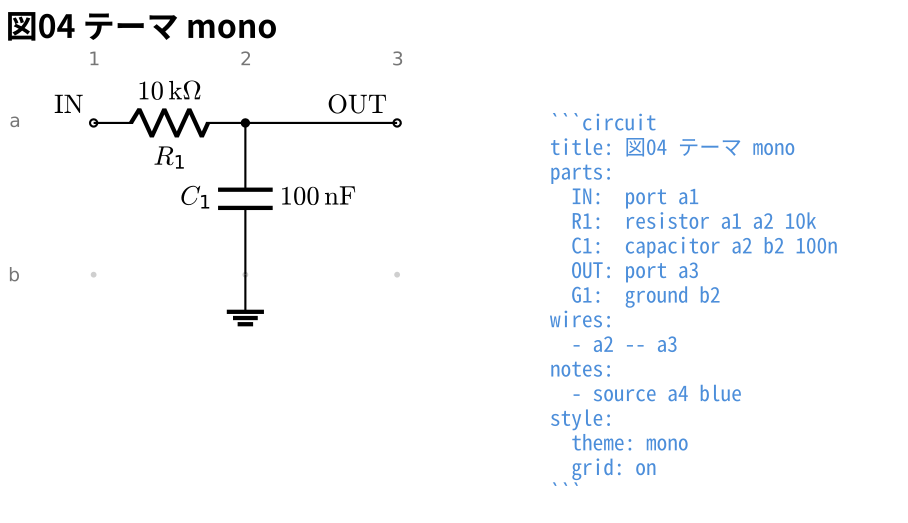
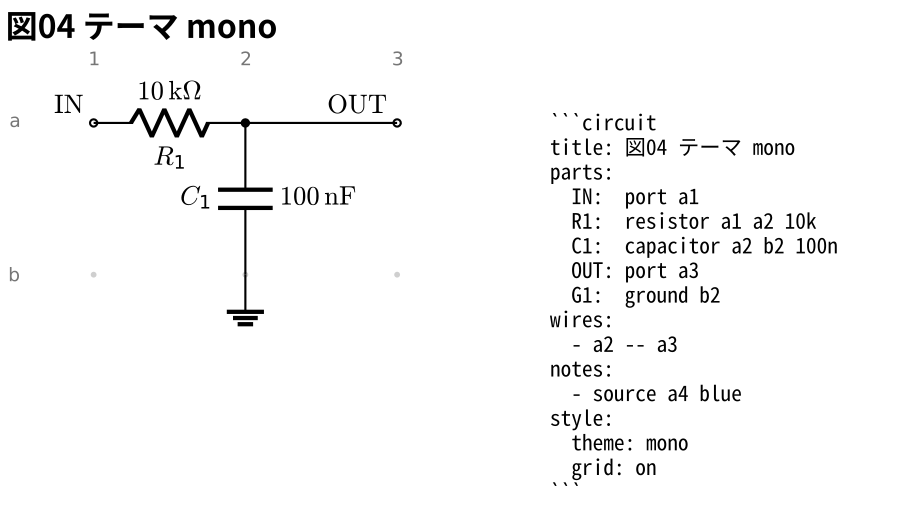
feat: theme: mono で注釈の色も潰す
「黒一色」と説明しているのに、注釈 (red / blue / green / orange) だけ色が
残っていた。資料に貼る・印刷するためのテーマなので、色が漏れると困る。
色を使いたい図では mono を選ばない、という分け方にした。

図は 1 回描いてどのテーマでも使い回す作りなので、TeX に焼き込まれた注釈の
色も描き上がった SVG で塗り替える。

あわせて **塗り替えを 1 回で決める**ようにした (レビュー指摘)。順に置き換えて
いたので、塗り替えた色を次の行がもう一度拾っていた — `theme: mono` +
`ink-color: "#ffffff"` + `paper-color: "#000000"` の図では、回路も注釈も
白に塗ったあと次の行で地の色 (黒) に塗り直され、まるごと消えていた。
回路の側は元からあった穴で、注釈をそこに通したことで露わになった。

🤖 Generated with [Claude Code](https://claude.com/claude-code)

diff --git a/src/core/render/theme.ts b/src/core/render/theme.ts
@@ -1,4 +1,4 @@
-import { DEFAULT_NOTE_SIZE, notePt } from '../notes.ts';
+import { DEFAULT_NOTE_SIZE, NOTE_COLORS, notePt } from '../notes.ts';
 import type { StyleSpec } from '../types.ts';
 
 /**
@@ -22,6 +22,13 @@ export type Theme = {
    */
   readonly grid: string;
   /**
+   * 注釈の色も ink に潰すか。**mono だけ true**。
+   * 「黒一色」と説明している以上、注釈だけ色が残ると説明が嘘になる
+   * (資料に貼る・印刷するためのテーマなので、色が漏れると困る)。
+   * 色を使いたい図では mono を選ばない、という分け方にしてある。
+   */
+  readonly monochrome: boolean;
+  /**
    * 地の色をエディタに合わせてよいか。
    * テーマを選ばず、地の色も書かなかったときだけ true。
    * 色を書いた図まで CSS で塗り替えると、書いた指定が効かなくなる。
@@ -34,15 +41,25 @@ export type Theme = {
  * そのまま拾うので、明るいテーマでも暗いテーマでも読める。
  */
 const AUTO: Theme = {
-  name: 'auto', ink: 'currentColor', paper: '#ffffff', grid: '#8b949e', followsEditor: true,
+  name: 'auto', ink: 'currentColor', paper: '#ffffff', grid: '#8b949e',
+  monochrome: false, followsEditor: true,
 };
 
 const THEMES: Record<string, Theme> = {
   auto: AUTO,
-  light: { name: 'light', ink: '#1f2328', paper: '#ffffff', grid: '#8c959f', followsEditor: false },
-  dark: { name: 'dark', ink: '#e6edf3', paper: '#0d1117', grid: '#7d8590', followsEditor: false },
-  /** 資料に貼る用。プレビューのテーマに関わらず黒一色。 */
-  mono: { name: 'mono', ink: '#000000', paper: '#ffffff', grid: '#767676', followsEditor: false },
+  light: {
+    name: 'light', ink: '#1f2328', paper: '#ffffff', grid: '#8c959f',
+    monochrome: false, followsEditor: false,
+  },
+  dark: {
+    name: 'dark', ink: '#e6edf3', paper: '#0d1117', grid: '#7d8590',
+    monochrome: false, followsEditor: false,
+  },
+  /** 資料に貼る用。プレビューのテーマに関わらず黒一色 — 注釈の色も潰す。 */
+  mono: {
+    name: 'mono', ink: '#000000', paper: '#ffffff', grid: '#767676',
+    monochrome: true, followsEditor: false,
+  },
 };
 
 export const THEME_NAMES: readonly string[] = Object.keys(THEMES);
@@ -64,6 +81,7 @@ export function resolveTheme(style: StyleSpec): ThemeResolution {
       ink: style.inkColor ?? base.ink,
       paper: style.paperColor ?? base.paper,
       grid: style.gridColor ?? base.grid,
+      monochrome: base.monochrome,
       // 地の色を書いてあるなら、その色のままにする。
       followsEditor: base.followsEditor && style.paperColor === null,
     },
@@ -85,11 +103,36 @@ export function resolveTheme(style: StyleSpec): ThemeResolution {
  * 地に沈んで見えなくなる。
  */
 export function recolorSvg(svg: string, theme: Theme): string {
+  const paint = paletteOf(theme);
+
   return svg
-    .replace(/(stroke|fill)="#000(?:000)?"/g, `$1="${theme.ink}"`)
-    .replace(/(stroke|fill)="#fff(?:fff)?"/g, `$1="${theme.paper}"`)
-    .replace(/(stroke|fill)="gray"/g, `$1="${theme.grid}"`)
+    // **1 回で決める**。順に置き換えると、塗り替えた色を次の行がもう一度拾う
+    // (ink に白を書いた図では、回路も注釈も次の行で地の色に塗り直されて消えた)。
+    .replace(/\b(stroke|fill)="([^"]+)"/g, (whole, attribute: string, color: string) => {
+      const painted = paint.get(color);
+      return painted === undefined ? whole : `${attribute}="${painted}"`;
+    })
     .replace(/^(\s*<svg\b)(?![^>]*\sfill=)/, `$1 fill="${theme.ink}"`);
+}
+
+/**
+ * 塗り替えの表。**ここに載っていない色には触らない** (`none` を含む)。
+ *
+ * mono だけは注釈のパレットも ink に潰す。図は 1 回描いてどのテーマでも
+ * 使い回す作りなので、TeX に焼き込まれた注釈の色もここで塗り替える。
+ */
+function paletteOf(theme: Theme): Map<string, string> {
+  const paint = new Map<string, string>([
+    ['#000', theme.ink],
+    ['#000000', theme.ink],
+    ['#fff', theme.paper],
+    ['#ffffff', theme.paper],
+    ['gray', theme.grid],
+  ]);
+  if (!theme.monochrome) return paint;
+
+  for (const color of Object.values(NOTE_COLORS)) paint.set(color, theme.ink);
+  return paint;
 }
 
 const WIDTH = /(<svg[^>]*?)\swidth="([\d.]+)"([^>]*?)\sheight="([\d.]+)"/;

diff --git a/src/core/render/theme.test.ts b/src/core/render/theme.test.ts
@@ -1,4 +1,5 @@
 import { describe, expect, test } from 'vitest';
+import { NOTE_COLORS } from '../notes.ts';
 import { EMPTY_STYLE } from '../parser/style.ts';
 import {
   DEFAULT_THEME_NAME, THEME_NAMES, recolorSvg, resizeSvg, resolveTheme, scaleSvgToText,
@@ -139,5 +140,58 @@ describe('scaleSvgToText', () => {
 
   test('leaves a drawing it cannot measure alone', () => {
     expect(scaleSvgToText('<svg viewBox="0 0 80 40"></svg>')).toBe('<svg viewBox="0 0 80 40"></svg>');
+  });
+});
+
+describe('recolorSvg の mono', () => {
+  const mono = resolveTheme({ ...EMPTY_STYLE, theme: 'mono' }).theme;
+  const dark = resolveTheme({ ...EMPTY_STYLE, theme: 'dark' }).theme;
+  const noted = svg(`<path stroke="${NOTE_COLORS.red}"/><text fill="${NOTE_COLORS.blue}">あ</text>`);
+
+  test('paints the notes with the ink too, because mono means one colour', () => {
+    // 「黒一色」と説明している以上、注釈だけ色が残ると説明が嘘になる
+    // (資料に貼る・印刷するためのテーマなので、色が漏れると困る)。
+    const painted = recolorSvg(noted, mono);
+
+    expect(painted).not.toContain(NOTE_COLORS.red);
+    expect(painted).not.toContain(NOTE_COLORS.blue);
+    expect(painted).toContain(`stroke="${mono.ink}"`);
+    expect(painted).toContain(`fill="${mono.ink}"`);
+  });
+
+  test('leaves the notes coloured in every other theme', () => {
+    const painted = recolorSvg(noted, dark);
+
+    expect(painted).toContain(NOTE_COLORS.red);
+    expect(painted).toContain(NOTE_COLORS.blue);
+  });
+
+  test('still paints the circuit with the ink the writer chose', () => {
+    const painted = recolorSvg(svg('<path stroke="#000"/>'), { ...mono, ink: '#333333' });
+
+    expect(painted).toContain('stroke="#333333"');
+  });
+});
+
+describe('recolorSvg の塗り替えは 1 回で決まる', () => {
+  // 順に置き換えると、**塗り替えた色をもう一度拾ってしまう**。
+  // ink に白を書いた図では、回路も注釈も次の行で地の色に塗り直されて消える。
+  const inverted = resolveTheme({
+    ...EMPTY_STYLE, theme: 'mono', inkColor: '#ffffff', paperColor: '#000000',
+  }).theme;
+
+  test('paints the circuit with the ink even when the ink is the other theme colour', () => {
+    expect(recolorSvg(svg('<path stroke="#000000"/>'), inverted)).toContain('stroke="#ffffff"');
+  });
+
+  test('paints a note with the ink without painting it again', () => {
+    // 根に足す塗りも同じ色なので、字のほうを名指しで見る。
+    const painted = recolorSvg(svg(`<text fill="${NOTE_COLORS.red}">あ</text>`), inverted);
+
+    expect(painted).toContain('<text fill="#ffffff">あ</text>');
+  });
+
+  test('still paints the hollow terminal with the paper colour', () => {
+    expect(recolorSvg(svg('<g fill="#fff"/>'), inverted)).toContain('fill="#000000"');
   });
 });

diff --git a/CHANGELOG.md b/CHANGELOG.md
@@ -220,6 +220,11 @@
 
 ### Changed
 
+- **`theme: mono` が注釈の色も潰すようにした**。「黒一色」と説明しているのに
+  注釈 (`red` / `blue` / `green` / `orange`) だけ色が残っていた。資料に貼る・
+  印刷するためのテーマなので、色が漏れると困る。図は 1 回描いてどのテーマでも
+  使い回す作りなので、TeX に焼き込まれた注釈の色も描き上がった SVG で塗り替える。
+  色を使いたい図では `mono` を選ばない、という分け方にした。
 - **プレビューの図の大きさを、読み手の地の文に合わせるようにした**。
   注釈の `normal` がちょうど地の文と同じ大きさになる倍率で外寸を em で書く
   (`markdown.preview.fontSize` を変えても拡大しても付いてくる)。それまでは

diff --git a/docs/syntax.md b/docs/syntax.md
@@ -978,7 +978,9 @@ style:
 - `auto` — **既定**。エディタの文字色をそのまま使うので、明るいテーマでも
   暗いテーマでも読める。1 枚描いた図をどちらでも使い回す (描き直さない)。
 - `light` / `dark` — 明暗を決め打ちする。ノートの見た目を固定したいとき。
-- `mono` — 黒一色。資料に貼るときや印刷するとき。
+- `mono` — 黒一色。資料に貼るときや印刷するとき。**注釈の色も潰れる** —
+  「黒一色」と言っている以上、注釈だけ色が残ると説明が嘘になるため。
+  色を使いたい図では `mono` を選ばない。
 
 ### グリッド
 

diff --git a/examples/08-themes.md b/examples/08-themes.md
@@ -78,5 +78,9 @@ style:
   grid: on
 ```
 
+**`mono` は注釈の色も潰す**。この 4 枚はどれも `- source a4 blue` と書いて
+あるが、`mono` だけ書き出しが黒で出る。「黒一色」と言っている以上、注釈だけ
+色が残ると説明が嘘になるため。色を使いたい図では `mono` を選ばない。
+
 テーマだけ選ぶなら `style: dark` の 1 行でよい。細かく指定するときは
 マップで書く ([09-style.md](09-style.md))。
